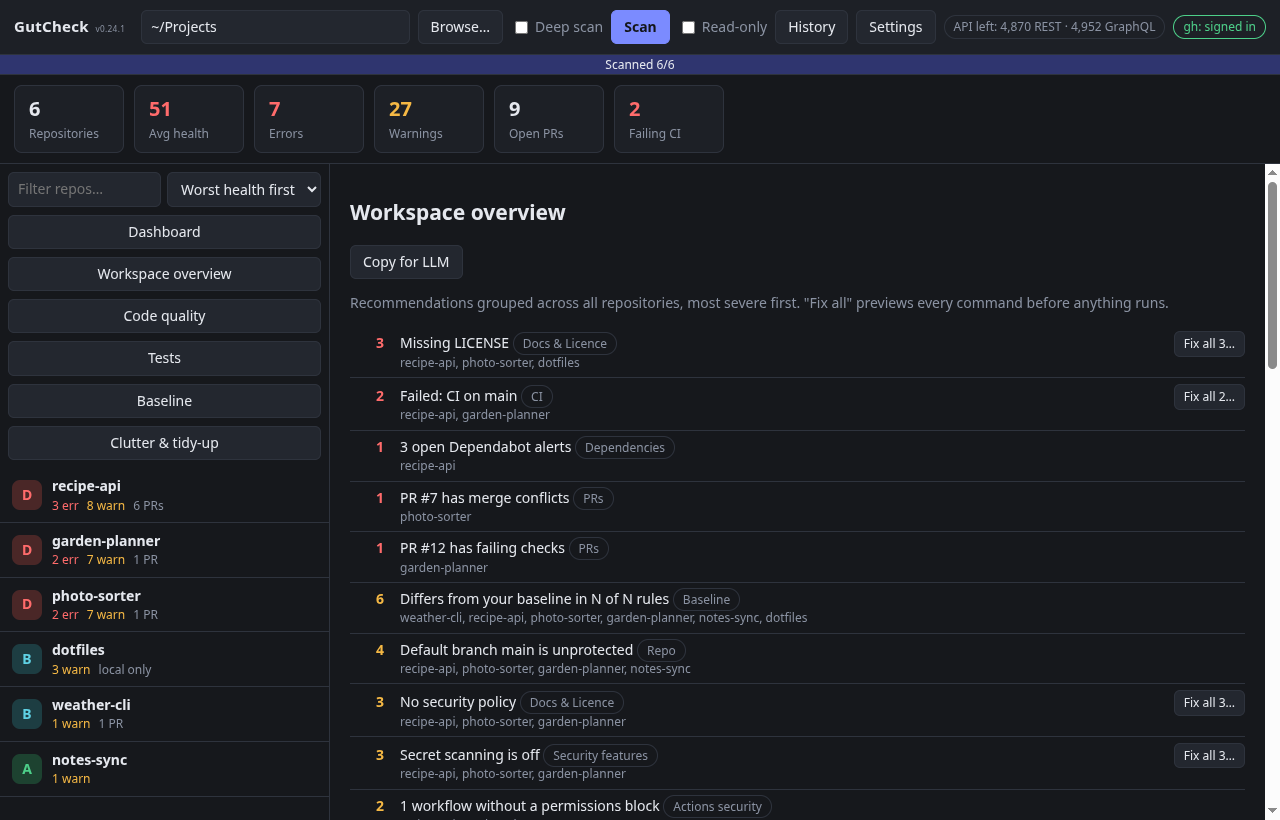
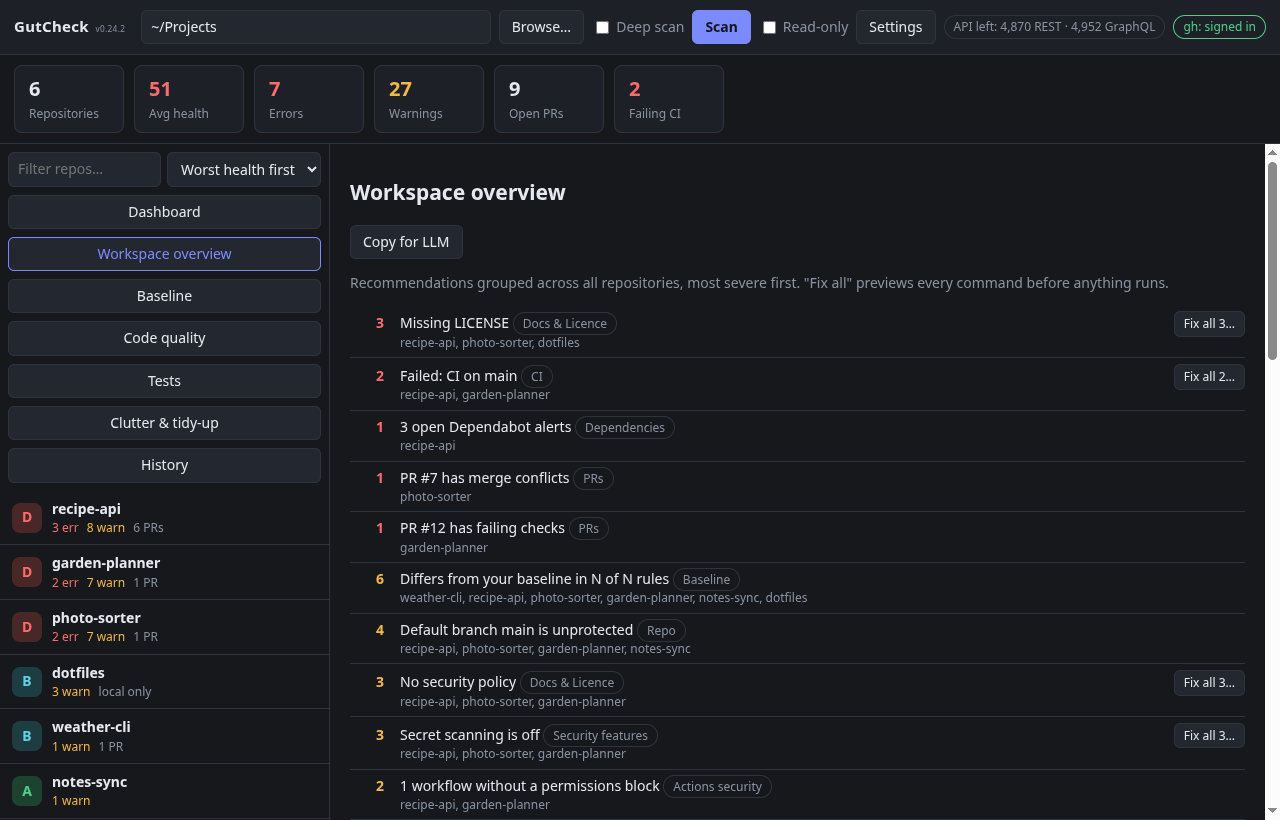
UI review: one sidebar for every view, consistent labels, plainer text
History joins the sidebar, which now highlights the current view. Intros on
Quality, Tests, Clutter and AI agents are cut to a sentence or two; Rescan
and Add... are used everywhere; Settings and Ignore dialogs name their
action. PR rows and clutter ages read as plain English. Fixed mid-word line
breaks, clipped heatmap headers, a stray null in the agents dialog and a
dangling separator in History. The demo can now capture every view
(GUTCHECK_SHOTS_ALL) for reviews; README screenshots refreshed.

diff --git a/scripts/demo/screenshots.js b/scripts/demo/screenshots.js
@@ -32,10 +32,22 @@ async function main() {
     'scan:start': async () => {
       win.webContents.send('scan:begin', { total: demo.results.length });
       demo.results.forEach((res, i) => win.webContents.send('scan:repo', { res, done: i + 1, total: demo.results.length }));
+      await wait(200); // let the progress events land before the reply hides the bar
       return { ok: true, root: '~/Projects', count: demo.results.length, rate: H['rate:get']() };
     },
     'trend:get': () => trend,
-    'audit:list': () => [],
+    'audit:list': () => [
+      { ts: new Date(Date.now() - 3600e3).toISOString(), ok: true, repo: 'weather-cli', title: 'Add .editorconfig', steps: [{ cmd: 'write .editorconfig' }, { cmd: 'git add .editorconfig' }] },
+      { ts: new Date(Date.now() - 7200e3).toISOString(), ok: true, repo: 'notes-sync', title: 'Ignored no-dependabot-config: updates are pulled in by hand every release', via: 'app' },
+      { ts: new Date(Date.now() - 86400e3).toISOString(), ok: false, repo: 'garden-planner', title: 'Push', steps: [{ cmd: 'git push' }] },
+    ],
+    'clutter:scan': (_e, { dirs } = {}) => service.clutterScan(dirs),
+    'quality:scan': (_e, { dirs } = {}) => service.qualityScan(dirs),
+    'tests:scan': (_e, { dirs } = {}) => service.testsScan(dirs),
+    'agents:status': () => ({ allowActions: false, command: '/opt/GutCheck.AppImage --mcp', clients: [
+      { id: 'claude-code', name: 'Claude Code', kind: 'cli', installed: true, configured: true, file: null, docs: 'https://code.claude.com/docs/en/mcp', snippet: 'claude mcp add …' },
+      { id: 'cursor', name: 'Cursor', kind: 'json', installed: true, configured: false, file: '~/.cursor/mcp.json', docs: 'https://cursor.com/docs/context/mcp', snippet: '{}' },
+      { id: 'gemini', name: 'Gemini CLI', kind: 'json', installed: false, configured: false, file: '~/.gemini/settings.json', docs: 'https://cursor.com/docs/context/mcp', snippet: '{}' }] }),
     'drift:get': () => ({ file: '~/.config/GutCheck/baseline.json', rules: driftReport(demo.results, demo.baseline) }),
     'background:get': () => ({ launchOnStartup: true, minimizeToTray: true, closeToTray: true, trayAvailable: true, scheduleEnabled: true, scheduleHours: '24' }),
     'action:plan': (_e, { items }) => service.planActions(items),
@@ -65,6 +77,39 @@ async function main() {
   await shot('overview.png');
   await js("document.getElementById('baseline').click()");
   await shot('baseline.png');
+  // GUTCHECK_SHOTS_ALL=<folder>: every other view and dialog too, for reviewing the UI (not the README).
+  const all = process.env.GUTCHECK_SHOTS_ALL;
+  if (all) {
+    const OUT2 = all;
+    fs.mkdirSync(OUT2, { recursive: true });
+    const shot2 = async (name, full = false) => {
+      await wait(900);
+      if (full) await js("document.getElementById('detail').scrollTop = 0");
+      fs.writeFileSync(path.join(OUT2, name), (await win.webContents.capturePage()).toPNG());
+      if (full) { await js("document.getElementById('detail').scrollTop = 99999"); await wait(300); fs.writeFileSync(path.join(OUT2, name.replace('.png', '-end.png')), (await win.webContents.capturePage()).toPNG()); await js("document.getElementById('detail').scrollTop = 0"); }
+      console.log('saved', name);
+    };
+    const click = (sel) => js(`document.querySelector(${JSON.stringify(sel)}).click()`);
+    const clickText = (sel, text) => js(`[...document.querySelectorAll(${JSON.stringify(sel)})].find((b) => b.textContent.includes(${JSON.stringify(text)}))?.click()`);
+    await click('#dashboard'); await shot2('dashboard.png', true);
+    await clickText('#repos li', 'recipe-api'); await shot2('repo-recipe.png', true);
+    await clickText('#repos li', 'notes-sync'); await shot2('repo-notes.png', true);
+    await clickText('#repos li', 'dotfiles'); await shot2('repo-dotfiles.png', true);
+    await click('#overview'); await shot2('overview.png', true);
+    await click('#quality'); await shot2('quality-before.png'); await clickText('#detail button', 'Scan'); await wait(2500); await shot2('quality.png', true);
+    await click('#tests'); await shot2('tests-before.png'); await clickText('#detail button', 'Scan'); await wait(2500); await shot2('tests.png', true);
+    await click('#clutter'); await shot2('clutter-before.png'); await clickText('#detail button', 'Scan'); await wait(2500); await shot2('clutter.png', true);
+    await click('#baseline'); await shot2('baseline.png', true);
+    await click('#history'); await shot2('history.png');
+    await click('#background'); await shot2('settings.png');
+    await clickText('.modal button', 'Connect an AI agent'); await shot2('agents.png');
+    await js("document.querySelector('.overlay')?.remove()");
+    await clickText('#repos li', 'recipe-api'); await wait(300);
+    await clickText('.finding button', 'Ignore'); await shot2('ignore.png');
+    await js("document.querySelector('.overlay')?.remove()");
+    await clickText('.toolbar button', 'New branch'); await shot2('new-branch.png');
+    await js("document.querySelector('.overlay')?.remove()");
+  }
   fs.rmSync(demo.root, { recursive: true, force: true });
   app.quit();
 }

diff --git a/src/renderer/style.css b/src/renderer/style.css
@@ -26,7 +26,7 @@ button.primary { background: var(--accent); border-color: var(--accent); color: 
 main { flex: 1; display: flex; min-height: 0; border-top: 1px solid var(--line); }
 aside { width: 330px; border-right: 1px solid var(--line); display: flex; flex-direction: column; min-height: 0; }
 .filters { display: flex; gap: 6px; padding: 8px; } .filters input { flex: 1; min-width: 0; }
-.nav { margin: 0 8px 8px; }
+.nav { margin: 0 8px 8px; } .nav[aria-current="page"] { border-color: var(--accent); color: var(--accent); background: var(--panel2); }
 #repos { list-style: none; margin: 0; padding: 0; overflow: auto; flex: 1; }
 #repos li { padding: 8px 12px; border-bottom: 1px solid var(--line); cursor: pointer; display: flex; gap: 10px; align-items: center; }
 #repos li:hover { background: var(--panel); } #repos li.sel { background: var(--panel2); border-left: 3px solid var(--accent); }
@@ -38,7 +38,7 @@ aside { width: 330px; border-right: 1px solid var(--line); display: flex; flex-d
 #detail { flex: 1; overflow: auto; padding: 16px 20px; }
 .empty { color: var(--muted); }
 .dhead { display: flex; align-items: center; gap: 12px; margin-bottom: 4px; } .dhead h2 { margin: 0; font-size: 20px; }
-.sub { color: var(--muted); margin-bottom: 12px; word-break: break-all; }
+.sub { color: var(--muted); margin-bottom: 12px; overflow-wrap: anywhere; }
 .toolbar { display: flex; gap: 8px; margin-bottom: 14px; flex-wrap: wrap; }
 h3 { margin: 18px 0 6px; font-size: 13px; text-transform: uppercase; letter-spacing: .6px; color: var(--muted); }
 .finding { background: var(--panel); border: 1px solid var(--line); border-left: 4px solid var(--info); border-radius: 6px; padding: 8px 12px; margin-bottom: 6px; display: flex; gap: 12px; align-items: center; }
@@ -122,7 +122,7 @@ body.dash #stats { display: none; }
 .legend.row2 { display: flex; gap: 14px; flex-wrap: wrap; margin-top: 8px; font-size: 12px; color: var(--muted); } .legend.row2 > span { display: inline-flex; align-items: center; }
 .heatwrap { max-height: 420px; overflow: auto; }
 .heat { display: grid; gap: 3px; align-items: stretch; }
-.heat .hh { font-size: 11px; color: var(--muted); text-align: center; padding: 2px 4px; overflow: hidden; text-overflow: ellipsis; white-space: nowrap; position: sticky; top: 0; background: var(--panel); z-index: 1; }
+.heat .hh { font-size: 10.5px; line-height: 1.2; color: var(--muted); text-align: center; padding: 2px 1px; align-self: end; overflow: hidden; position: sticky; top: 0; background: var(--panel); z-index: 1; }
 .heat .hn { font-size: 12px; overflow: hidden; text-overflow: ellipsis; white-space: nowrap; align-self: center; } .heat .hn:hover { color: var(--accent); }
 .hm { min-height: 24px; border-radius: 4px; background: var(--panel2); display: grid; place-items: center; font-size: 11px; font-weight: 700; cursor: pointer; color: #0b0d12; }
 .hm-error-1 { background: color-mix(in srgb, var(--err) 35%, var(--panel2)); } .hm-error-2 { background: color-mix(in srgb, var(--err) 65%, var(--panel2)); } .hm-error-3 { background: var(--err); }

diff --git a/test/renderer.test.js b/test/renderer.test.js
@@ -15,7 +15,7 @@ test('Startup, tray and schedule dialog loads the current options and saves the 
   assert.deepEqual(boxes.map((b) => b.checked), [false, true, false, false]);
   assert.equal(t.$('.modal select').value, '24');
   boxes[0].checked = true;
-  click(t.$$('.modal button').find((b) => b.textContent === 'Continue'));
+  click(t.$$('.modal button').find((b) => b.textContent === 'Save'));
   await tick();
   assert.deepEqual(t.calls.find((c) => c[0] === 'background')[1], { launchOnStartup: true, minimizeToTray: true, closeToTray: false, scheduleEnabled: false, scheduleHours: '24' });
   assert.match(t.$('#toast').textContent, /saved/i);
@@ -157,7 +157,7 @@ test('History loaded late does not draw over the view the user switched to', asy
   click(t.$('#dashboard'));
   release();
   await tick();
-  assert.ok(!t.$('#detail').textContent.includes('Action history'));
+  assert.ok(!t.$('#detail h2').textContent.includes('History'));
   assert.match(t.$('#detail h2').textContent, /Dashboard/);
 });
 
@@ -219,7 +219,7 @@ test('saving the Startup & tray options shows an error the main process reports'
   t.w.api.setBackground = async () => ({ error: 'Could not change the login item: EACCES', trayAvailable: true });
   click(t.$('#background'));
   await tick();
-  click(t.$$('.modal button').find((b) => b.textContent === 'Continue'));
+  click(t.$$('.modal button').find((b) => b.textContent === 'Save'));
   await tick();
   assert.match(t.$('#toast').textContent, /EACCES/);
 });
@@ -234,6 +234,7 @@ test('Settings > AI agents: connect shows the exact command first, follows the a
   await tick();
   assert.equal(t.$('.modal .mh').textContent, 'AI agents');
   assert.equal(t.$$('.overlay').length, 1, 'the settings dialog closed first');
+  assert.ok(!/\bnull\b/.test(t.$('.modal').textContent), 'no stray "null" text');
   const cards = t.$$('.agent');
   assert.deepEqual(cards.map((c) => c.dataset.agent), ['claude-code', 'cursor']);
   const btn = (card, label) => [...card.querySelectorAll('button')].find((b) => b.textContent === label);
@@ -288,7 +289,7 @@ test('a finding can be ignored with a reason, and the Baseline view offers to cr
   const [reason, all] = t.$$('.modal input');
   reason.value = 'parked on purpose';
   assert.equal(all.type, 'checkbox');
-  click(t.$$('.modal button').find((x) => x.textContent === 'Continue'));
+  click(t.$$('.modal button').find((x) => x.textContent === 'Ignore'));
   await tick();
   assert.deepEqual(t.calls.find((c) => c[0] === 'ignore')[1], { dir: '/w/beta', id: 'a', reason: 'parked on purpose', allRepos: false });
   click(t.$('#baseline'));

diff --git a/src/renderer/clutter-view.js b/src/renderer/clutter-view.js
@@ -67,7 +67,7 @@ function clutterRepoEl(res) {
         h('span', { class: 'badge' }, CAT_LABEL[i.category] || i.category),
         h('span', { class: 'badge conf-' + i.confidence, title: CONF_TIP[i.confidence] }, i.confidence),
         i.ignored ? h('span', { class: 'badge' }, 'git-ignored') : null,
-        h('div', { class: 'muted' }, `${i.reason} · ${fmtSize(i.size)} · ${i.ageDays}d old${i.keep ? ` · keeps ${i.keep}` : ''}`)));
+        h('div', { class: 'muted' }, `${i.reason} · ${fmtSize(i.size)} · ${i.ageDays ? `${i.ageDays}d old` : 'today'}${i.keep ? ` · keeps ${i.keep}` : ''}`)));
   });
   return h('div', { class: 'cblock' },
     h('h3', {}, `${res.name}`, h('span', { class: 'pill' }, `${plural(res.count, 'item')} · ${fmtSize(res.totalSize)}`)),
@@ -82,7 +82,7 @@ function renderClutterView() {
   if (state.view !== 'clutter') return;
   const c = state.clutter;
   const head = [h('h2', {}, 'Clutter & tidy-up'),
-    h('p', { class: 'sub' }, 'Stale and duplicate env files, caches, test output, temp and backup files, plus organisation advice. Nothing tracked by git is ever offered. Env files are only compared by checksum; their contents are never read into the app. Removal previews every item first and moves anything that is not regenerable to your trash.')];
+    h('p', { class: 'sub' }, 'Caches, temp and backup files, stray env files (never opened) and tidy-up advice. Tracked files are never offered, every removal is previewed, and anything that cannot be rebuilt goes to your trash.')];
   if (!c) {
     const err = state.scanError.clutter;
     const msg = !state.repos.size ? 'Choose a workspace folder and press Scan first.' : err ? `Clutter scan failed: ${err}` : 'Scanning…';
@@ -99,8 +99,8 @@ function renderClutterView() {
   const rescan = btn('Rescan', (e) => { e.target.disabled = true; scanClutterNow(); });
   put($('detail'), ...head,
     h('div', { class: 'toolbar' }, rescan, all, h('span', { class: 'muted' }, `${plural(total.n, 'item')}, ${fmtSize(total.size)} found across ${plural(c.repos.size, 'repo')}`)),
-    c.workspace.length ? [h('h3', {}, 'Workspace'), ...c.workspace.map((f) => adviceEl(null, f))] : null,
-    repos.length ? repos.map(clutterRepoEl) : h('p', { class: 'ok-msg' }, 'No clutter found. Tidy.'));
+    repos.length ? repos.map(clutterRepoEl) : h('p', { class: 'ok-msg' }, 'No clutter found. Tidy.'),
+    c.workspace.length ? [h('h3', {}, 'Workspace and this machine'), ...c.workspace.map((f) => adviceEl(null, f))] : null);
   $('detail').scrollTop = top;
 }
 

diff --git a/scripts/demo/build.js b/scripts/demo/build.js
@@ -31,11 +31,13 @@ const REPOS = {
   'recipe-api': {
     files: { 'package.json': '{"name":"recipe-api","version":"2.1.0"}', 'package-lock.json': '{"lockfileVersion":3,"packages":{}}', 'README.md': README('recipe-api'), '.gitignore': 'node_modules/\n', '.github/workflows/ci.yml': UNPINNED, '.github/workflows/auto-merge.yml': AUTOMERGE, '.github/dependabot.yml': 'version: 2\nupdates:\n  - package-ecosystem: npm\n    directory: /\n    schedule:\n      interval: weekly\n' },
     tag: 'v2.0.0',
+    extra: { 'src/server.js': 'const http = require("http");\nfunction retry(n) { if (n > 7) return false; return setTimeout(() => retry(n + 1), 2500); }\nhttp.createServer((q, r) => r.end("ok")).listen(8080);\n// TODO: rate limiting\n', 'test/api.test.js': 'const test = require("node:test");\ntest.only("lists recipes", () => {});\n' },
     gh: { failed: true, dependabot: ['express 4.21.2', 'zod 3.25.1', 'pino 9.6.0', 'undici 6.21.1', 'helmet 8.1.0', 'dotenv 16.5.0'], alerts: 3 },
   },
   'photo-sorter': {
     files: { 'pyproject.toml': '[project]\nname = "photo-sorter"\nversion = "0.3.0"\n', 'README.md': '# photo-sorter\n', 'sorter.py': 'print("hi")\n' },
     dirty: ['notes.txt', 'sorter.py'],
+    untracked: { '__pycache__/sorter.cpython-312.pyc': 'x', '.pytest_cache/README.md': 'cache', 'sorter.py.bak': 'old', 'tests/test_sorter.py': 'import pytest\n\n@pytest.mark.skip\ndef test_sort():\n    pass\n' },
     gh: { conflict: true, prs: [{ number: 7, title: 'Sort by EXIF date', stale: true }] },
   },
   'garden-planner': {
@@ -57,13 +59,14 @@ function makeRepo(root, name, spec) {
   git(dir, 'init', '-q', '-b', 'main');
   git(dir, 'config', 'user.email', 'demo@example.com');
   git(dir, 'config', 'user.name', 'Demo');
-  for (const [f, t] of Object.entries(spec.files)) put(dir, f, t);
+  for (const [f, t] of Object.entries({ ...spec.files, ...(spec.extra || {}) })) put(dir, f, t);
   git(dir, 'add', '-A');
   git(dir, 'commit', '-qm', 'Initial commit');
   if (spec.tag) git(dir, 'tag', spec.tag);
   for (let i = 0; i < 6; i++) { put(dir, `src/change-${i}.txt`, String(i)); git(dir, 'add', '-A'); git(dir, 'commit', '-qm', `Change ${i}`); }
   if (!spec.local) git(dir, 'remote', 'add', 'origin', `https://github.com/example/${name}.git`);
   for (const f of spec.dirty || []) put(dir, f, 'edited\n');
+  for (const [f, t] of Object.entries(spec.untracked || {})) put(dir, f, t);
   git(dir, 'branch', 'old-experiment');
   if (spec.ahead) git(dir, 'branch', 'feature/merged-already');
   return dir;

diff --git a/src/renderer/tests-view.js b/src/renderer/tests-view.js
@@ -53,7 +53,7 @@ function renderTestsView() {
   if (state.view !== 'tests') return;
   const c = state.tests;
   const head = [h('h2', {}, 'Tests'),
-    h('p', { class: 'sub' }, 'Reads each repo\'s tests without running them: tests CI never runs, focused, skipped and assertion-free tests, sleeps and real network calls, and large files with no test. Coverage, JUnit and mutation reports that already exist are read too. Running tests with coverage or mutation testing executes the project\'s code, so each run is previewed and asks for the repo name.')];
+    h('p', { class: 'sub' }, 'Reviews each repo\'s tests without running them, and reads coverage and mutation reports that already exist. Running tests is opt-in: it executes the project\'s code, so each run asks for the repo name.')];
   if (!c) {
     const err = state.scanError.tests;
     const msg = !state.repos.size ? 'Choose a workspace folder and press Scan first.' : err ? `Test review failed: ${err}` : 'Reviewing…';
@@ -65,7 +65,7 @@ function renderTestsView() {
   const n = (x) => x.toLocaleString();
   const top = $('detail').scrollTop;
   put($('detail'), ...head,
-    h('div', { class: 'toolbar' }, btn('Review again', (e) => { e.target.disabled = true; scanTestsNow(); })),
+    h('div', { class: 'toolbar' }, btn('Rescan', (e) => { e.target.disabled = true; scanTestsNow(); })),
     h('div', { class: 'qstats' }, stat('Test cases', n(sum((r) => r.testCases))), stat('Repos without tests', n(all.filter((r) => !r.testCases).length), all.some((r) => !r.testCases) ? 'warn' : 'ok'),
       stat('Not run by CI', n(all.filter((r) => r.advice.some((a) => a.id === 't-ci' || a.id === 't-ci-none')).length), 'warn'),
       stat('Skipped or focused', n(sum((r) => r.skipped.length + r.focused.length))), stat('With coverage', `${covered.length}/${all.length}`)),

diff --git a/src/renderer/index.html b/src/renderer/index.html
@@ -14,7 +14,6 @@
     <label class="deep" title="Also runs npm outdated per repo (slower)"><input id="deep" type="checkbox" /> Deep scan</label>
     <button id="scan" class="primary">Scan</button>
     <label class="deep" title="Disable every action; GutCheck only reads"><input id="readonly" type="checkbox" /> Read-only</label>
-    <button id="history">History</button>
     <button id="background" title="AI agents, launch on start up and system tray">Settings</button>
     <span id="rate" class="pill" title="Remaining GitHub API quota"></span>
     <span id="auth" class="pill"></span>
@@ -33,10 +32,11 @@
       </div>
       <button id="dashboard" class="nav">Dashboard</button>
       <button id="overview" class="nav">Workspace overview</button>
+      <button id="baseline" class="nav" title="Compare every repo with what you say each repo should have">Baseline</button>
       <button id="quality" class="nav" title="File length limits, magic numbers, secrets and TODOs">Code quality</button>
       <button id="tests" class="nav" title="Missing, skipped and assertion-free tests, CI gaps, coverage and mutation testing">Tests</button>
-      <button id="baseline" class="nav" title="Compare every repo with what you say each repo should have">Baseline</button>
       <button id="clutter" class="nav" title="Find stale env files, caches, duplicates and get tidy-up advice">Clutter &amp; tidy-up</button>
+      <button id="history" class="nav" title="Every change GutCheck has made on this machine">History</button>
       <ul id="repos"></ul>
     </aside>
     <section id="detail"><p class="empty">Choose a workspace folder and press Scan.</p></section>

diff --git a/src/checks.js b/src/checks.js
@@ -90,8 +90,8 @@ function checkFiles(s) {
   // Distro packaging repos (AUR: PKGBUILD + .SRCINFO) hold only a build recipe, so project docs and licence files do not apply.
   if (f.aurPackage) return out;
   if (!f.license) add('no-license', pub ? 'error' : 'info', 'Missing LICENSE', pub ? 'Without a licence nobody may legally use, copy or contribute to the code.' : 'Not needed while private, but add one before you share it.', { type: 'add-file', label: 'Add MIT licence', template: 'license' });
-  if (!f.readme) add('no-readme', 'error', 'Missing README', 'Describe what the project is and how to run it.', { type: 'add-file', label: 'Create README', template: 'readme' });
-  if (!f.gitignore) add('no-gitignore', 'warn', 'Missing .gitignore', 'Build output and secrets may get committed.', { type: 'add-file', label: 'Create .gitignore', template: 'gitignore' });
+  if (!f.readme) add('no-readme', 'error', 'Missing README', 'Describe what the project is and how to run it.', { type: 'add-file', label: 'Add README', template: 'readme' });
+  if (!f.gitignore) add('no-gitignore', 'warn', 'Missing .gitignore', 'Build output and secrets may get committed.', { type: 'add-file', label: 'Add .gitignore', template: 'gitignore' });
   // GitHub also counts defaults from the owner's .github repository (the remote.* flags include those).
   if (pub && !r.isFork) {
     if (!f.security && !r.securityPolicy) add('no-security', 'warn', 'No security policy', 'Tell people how to report vulnerabilities privately (SECURITY.md).', { type: 'add-file', label: 'Add SECURITY.md', template: 'security' });

diff --git a/src/renderer/app.js b/src/renderer/app.js
@@ -204,11 +204,13 @@ function branchesPanel(r) {
     ...rows, ...remoteRows];
 }
 
+const CHECKS = { SUCCESS: 'checks passing', FAILURE: 'checks failing', PENDING: 'checks running' };
+const REVIEW = { APPROVED: 'approved', CHANGES_REQUESTED: 'changes requested', REVIEW_REQUIRED: 'review required' };
 function prsPanel(r) {
   if (!r.prs?.length) return [];
   const act = (type, p, extra) => actOn(r, type, { number: p.number, ...extra });
   return [h('h3', {}, `Open pull requests (${r.prs.length})`), ...r.prs.map((p) => h('div', { class: 'row' },
-    h('div', { class: 'grow' }, h('b', {}, `#${p.number} ${p.title}`), h('div', { class: 'muted' }, `${p.headRefName}${p.isDraft ? ' · draft' : ''} · checks: ${p.statusCheckRollup} · review: ${p.reviewDecision || 'none'}${p.mergeable === 'CONFLICTING' ? ' · conflicts' : ''}`)),
+    h('div', { class: 'grow' }, h('b', {}, `#${p.number} ${p.title}`), h('div', { class: 'muted' }, [p.headRefName, p.isDraft ? 'draft' : '', CHECKS[p.statusCheckRollup] || 'no checks', REVIEW[p.reviewDecision] || 'not reviewed', p.mergeable === 'CONFLICTING' ? 'conflicts' : ''].filter(Boolean).join(' · '))),
     p.isDraft ? btn('Ready for review', act('pr-ready', p)) : btn('Merge…', act('pr-merge', p, { method: 'squash', deleteBranch: true })),
     btn('Close', act('pr-close', p)),
     btn('Open ↗', () => window.api.openUrl(p.url))))];

diff --git a/src/renderer/agents-view.js b/src/renderer/agents-view.js
@@ -51,11 +51,11 @@ async function openAgents() {
 
     box.append(
       h('h3', { class: 'mh' }, 'AI agents'),
-      h('p', { class: 'sub' }, 'Connect an agent and it can use GutCheck\'s scans, findings, report and fixes as MCP tools (gutcheck_overview, gutcheck_findings, gutcheck_plan…), without looking up git or gh commands. It runs this command:'),
+      h('p', { class: 'sub' }, 'A connected agent can use GutCheck\'s scans, findings, report and fixes as MCP tools, instead of working out git and gh commands itself. It runs this command:'),
       h('div', {}, cmd),
       h('label', { class: 'frow chk' }, allow, ' Let agents plan and apply fixes (--allow-actions). Each change is still a single-use plan, the Read-only switch still stops it, and everything is recorded in History. Off: agents can only read.'),
       list,
-      st.cleanupPeriodDays !== undefined ? Object.assign(cleanupRow(), { className: 'plan safe cleanup-row' }) : null,
+      st.cleanupPeriodDays !== undefined ? Object.assign(cleanupRow(), { className: 'plan safe cleanup-row' }) : '', // append() would print null
       h('div', { class: 'mbtns' }, h('button', { class: 'primary', onclick: () => close() }, 'Close')));
     render();
   });

diff --git a/src/renderer/modals.js b/src/renderer/modals.js
@@ -66,7 +66,7 @@ function askInputs(spec, values) {
     box.addEventListener('keydown', (e) => e.key === 'Enter' && e.target.tagName === 'INPUT' && e.target.type === 'text' && submit());
     const extra = spec.extra ? spec.extra(close) : [];
     box.append(h('h3', { class: 'mh' }, spec.title), ...(spec.lead || []).map((t) => h('h4', {}, t)), ...rows, ...extra,
-      h('div', { class: 'mbtns' }, h('button', { onclick: () => close(null) }, 'Cancel'), h('button', { class: 'primary', onclick: submit }, 'Continue')));
+      h('div', { class: 'mbtns' }, h('button', { onclick: () => close(null) }, 'Cancel'), h('button', { class: 'primary', onclick: submit }, spec.submit || 'Continue')));
   });
 }
 
@@ -118,6 +118,7 @@ function showResults(outs) {
 
 const BACKGROUND_SPEC = {
   title: 'Settings',
+  submit: 'Save',
   lead: ['Startup, tray and scheduled scans'],
   // Opening the agents dialog closes this one without saving (it has its own Save/Connect steps).
   extra: (close) => [h('h4', {}, 'AI agents'), h('p', { class: 'sub' }, 'Let Claude, Codex, Cursor, Copilot or Gemini use GutCheck\'s scans and fixes over MCP.'),

diff --git a/src/renderer/overview-view.js b/src/renderer/overview-view.js
@@ -27,10 +27,10 @@ async function renderHistory() {
   const entries = await window.api.audit();
   if (state.view !== 'history') return; // the user moved on while it loaded
   put($('detail'), 
-    h('h2', {}, 'Action history'),
-    h('p', { class: 'sub' }, 'Everything GutCheck has changed on this machine (newest first). Stored locally in the app data folder.'),
+    h('h2', {}, 'History'),
+    h('p', { class: 'sub' }, 'Every change GutCheck has made on this machine, newest first.'),
     entries.length ? null : h('p', { class: 'empty' }, 'Nothing yet.'),
     ...entries.map((e) => h('div', { class: 'finding ' + (e.ok ? '' : 'error') },
       h('div', { class: 't' }, h('b', {}, `${e.ok ? '✓' : '✗'} ${e.repo}: ${e.title}`),
-        h('span', {}, new Date(e.ts).toLocaleString() + ' · ' + (e.steps || []).map((s) => s.cmd).join('  ;  '))))));
+        h('span', {}, [new Date(e.ts).toLocaleString(), (e.steps || []).map((s) => s.cmd).join('  ;  ')].filter(Boolean).join(' · '))))));
 }
